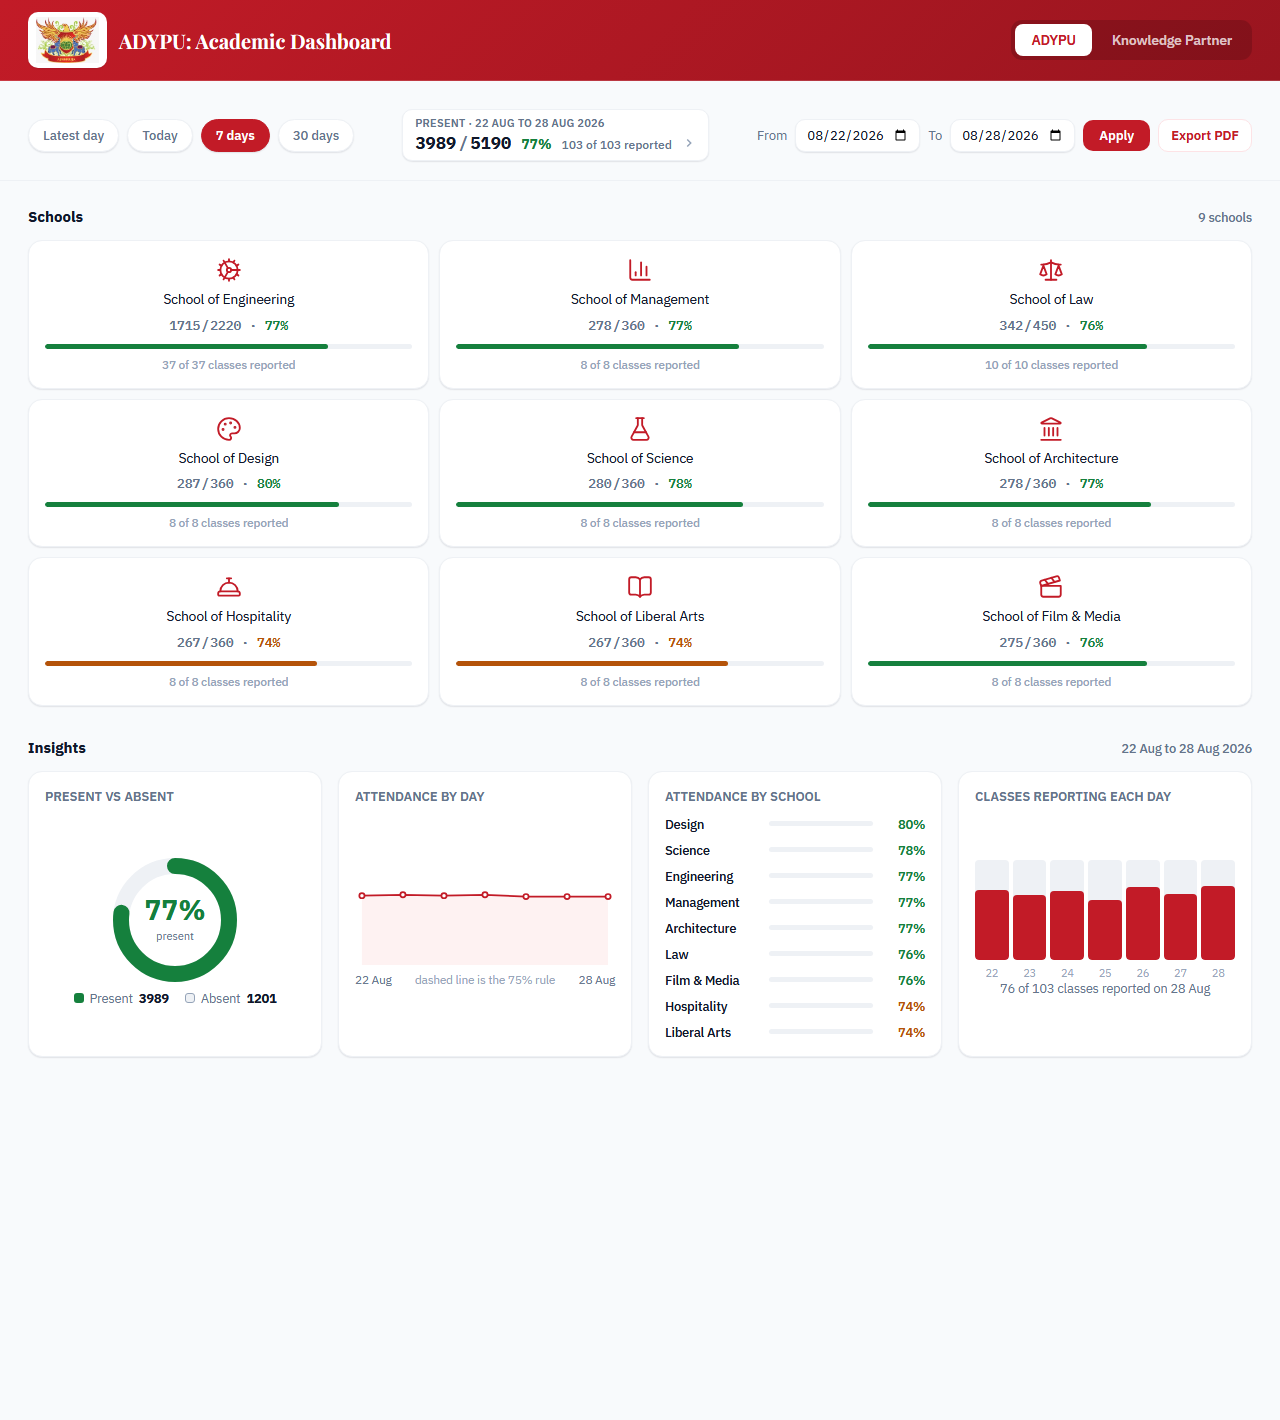
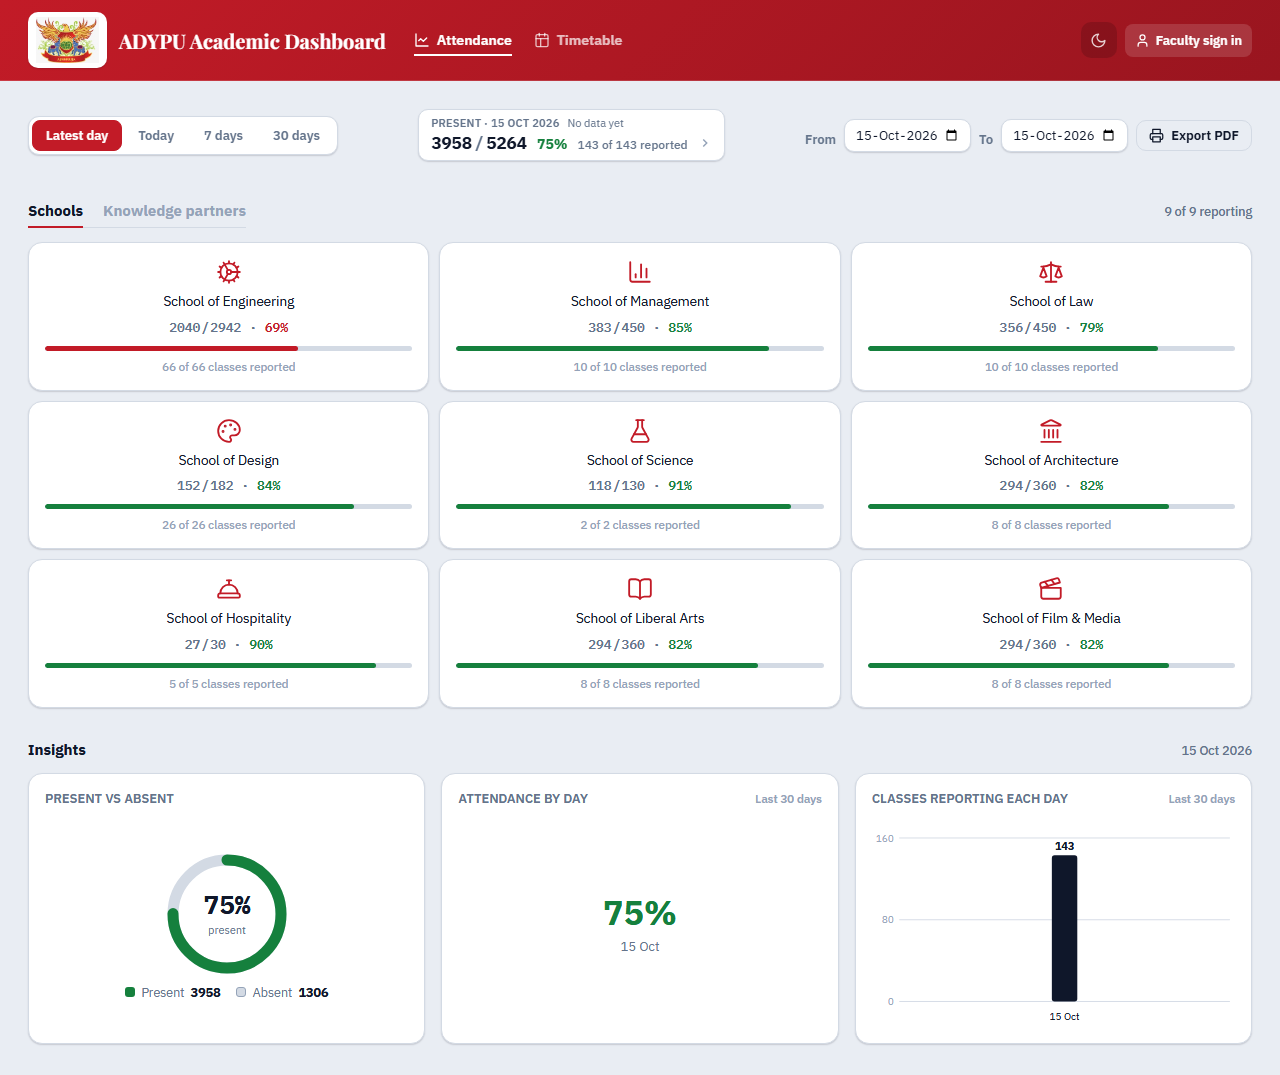
Rewrite the README short, with fresh screenshots

diff --git a/README.md b/README.md
@@ -1,274 +1,89 @@
 # ADYPU Academic Dashboard
 
-Daily attendance for Ajeenkya D Y Patil University: nine schools, 136 classes,
-drilled from School to Year to Branch to Division over any date range.
+Daily attendance and room timetables for Ajeenkya D Y Patil University.
 
-- Live: <https://adypu-academic-dashboard.fast-page.org/>
-- Dev (faculty marking and accounts): <https://adypu-daybook.fast-page.org/>
+**Live:** <https://adypu-daybook.fast-page.org/>
 
 ![The dashboard](docs/screenshots/dashboard.png)
 
-*Figures in these screenshots are sample data.*
+<sub>Figures in the screenshots are sample data.</sub>
 
-## What it does
+## Attendance
 
-- **A number that means something.** Present against the strength of the classes
-  that reported, beside a count of how many of the 136 those were. Neither can
-  mislead on its own.
-- **Any date range.** Presets, or two date inputs. A range averages each class
-  over the days it reported, so a week stays comparable to a day, and the
-  breakdown names the dates behind every average.
-- **Drill down and everything follows.** Pick a school, year, branch or a single
-  division; the summary, breadcrumb and all four charts rescope to it.
-- **Export as PDF.** The page prints itself as a dated report, named after the
-  breadcrumb, showing only the school in view.
-- **Faculty mark attendance from a phone.** Signed-in faculty get their class
-  list with a tick box against each student, plus all-present and all-absent.
-  The dashboard itself stays open to everyone: only writing needs an account.
-- **Knowledge partners on their own tab.** The 11 partner institutions have
-  their own tree (partner, year, program, division) at `?view=partners`. They
-  never count toward a school tile, the university percentage or the classes
-  reported pill.
-- **Room timetable.** `rooms.php` shows any room by date, ULC and classroom, period by period:
-  subject, class and teacher, with labs, breaks and outside bookings marked. It
-  is built from the official classwise timetable.
-- **Light and dark themes**, one toggle in the header of every page.
+- **Honest numbers.** Present against the strength of the classes that reported, always shown with how many reported.
+- **Any date range.** Presets or custom dates. A range averages each class's days, so a week compares with a day.
+- **Drill down.** School, year, branch, division. The summary and charts follow.
+- **Export PDF.** A dated report of whatever is on screen.
+- **Knowledge partners** have their own tab and never count toward a school.
 
-![Drilling down to a division](docs/screenshots/drilldown.png)
-
-## Insights
-
-Four charts, all hand-drawn SVG and CSS, no chart library. They rescope with the
-drill-down and cover the range you picked: present against absent, attendance
-per day against the university's 75% rule, a ranked comparison of whatever sits
-one level below your selection, and how many classes filed a form each day. That
-last one is the honesty check, since a great percentage resting on three forms
-should look like exactly that.
-
-![The four charts](docs/screenshots/insights-charts.png)
-
-## How the data gets here
-
-Two ways in, merged when the page is drawn.
-
-```
-Google Form -> response Sheet -> Apps Script (tools/apps-script.gs)
-                                      |  POST whole sheet as CSV,
-                                      |  secret in X-Ingest-Secret
-                                      v
-                                 api/ingest.php
-                                      |  replaces the file, every push
-                                      v
-                              cache/attendance.json  --+
-                                                       |
-Faculty phone -> login.php -> mark.php                 +--> merged on read
-                                 |                     |    by index.php and
-                                 |  appended, never    |    api/division.php
-                                 v  seen by a push     |
-                             data/submissions.php  ----+
-```
-
-Faculty either submit a present count on a Google Form, which an Apps Script
-pushes to `api/ingest.php`, or tick absentees on `mark.php`, which writes its own
-store. Both hold one count per class per lecture, which is what lets any date
-range be rebuilt and lets one class report after each of its lectures.
-
-They are separate files for a load-bearing reason: **`api/ingest.php` replaces
-`cache/attendance.json` wholesale on every push**, so anything the app wrote into
-that file would be gone within the hour. Where both name the same class, day and
-lecture, the app wins, because it counted students rather than trusting a typed
-total.
-
-Two rules hold the numbers together:
-
-- **`includes/structure.php` is canonical.** Every class that exists and its
-  strength. The denominator never comes from a submitted row, so it cannot drift
-  from a typo on the Form.
-- **The structure leads the submissions.** A class nobody reported still exists,
-  still contributes its strength, and is flagged unreported, so "nobody came"
-  and "nobody submitted" never look the same.
-
-## Faculty marking
-
-Everything here lives on the main site, on `main`. The dashboard stays public;
-only writing attendance needs a login.
-
-- **Sign up** at `/login.php`. A school's join code activates the account
-  instantly; a wrong or missing code queues it for an admin rather than
-  refusing it, so a teacher who missed the memo still ends up somewhere an admin
-  can see them.
-- **Mark** at `/mark.php`. Pick class, date and lecture (the URL carries all
-  three, so a daily class can be bookmarked). With a student list for the class
-  you get a tick box per student, where a tick means absent and the default is
-  everyone present. Without one you get a single present count, so all 136
-  classes work from day one and each upgrades as its school's list arrives. The
-  phone never posts a present total: it is computed server side from the roster,
-  and a typed count is clamped to the class strength.
-- **Admin** at `/admin.php`: approve queued accounts, disable them, rotate each
-  school's join code, and generate a temporary password when someone is locked
-  out. There is no email on this host, so there are no reset links.
-- **Account** at `/account.php`: change your own password.
-- **Usage** at `/stats.php` (admins only): visitors, page views, updates
-  received and classes reported, today and over 14 days, plus a per-school table
-  for any day. Traffic is our own counter with a salted, one-day visitor hash,
-  and footer link clicks are counted too. It also shows when the last push
-  arrived and any Form options it had to drop.
-- **Student lists** load with `tools/roster-import.php`, one file per school
-  under `data/roster/`. Any division whose list size disagrees with
-  `structure.php` is printed, which is how real enrolment figures find their way
-  back into the structure.
+![Drilling into a school](docs/screenshots/drilldown.png)
 
 ## Room timetable
 
-`rooms.php` is public and read-only. Pick a school (or all of them), a date,
-then a ULC, then a classroom, and it shows that room's whole week, the date's
-day marked. A picked school narrows the ULCs and rooms to where it teaches; in
-its rooms another school's class shows only as booked.
+- **Rooms.** Any room's week, picked by school and building.
+- **Free slots.** The same timetable with free time in green, for finding a room for an extra class.
+- **All rooms.** One switch shows every room's day on a single screen.
+- **Dean workload.** One person's week across every room.
+- **Attendance in the cell.** Tap a class to see its attendance by division.
 
-Tap a class to open its panel: the attendance filed for that lecture on that
-date, division by division. On a local copy with `TIMETABLE_SOURCES` set in
-`config.local.php`, the panel also lists every document the class is written
-in, with the tab and cell (or the PDF page) and how it was read; **Open at this
-class** (`source.php`) shows the school's own sheet with those cells marked, or
-the PDF at that page, and **Download original** is the file as the school sent
-it. The live site has the switch off and never gets the documents
-(`timetable/docs/`, which stage-upload leaves out). Engineering and
-whole-year BBA/MBA classes also show their attendance in the cell ("48/60
-present", or "Not marked" once the lecture has started). Law and Liberal Arts
-timetable by programme while their attendance is kept by division, so they show
-none rather than a guess.
-**Show one day** narrows it to the date's day (the timetable repeats weekly, so
-the date only picks the weekday; a weekend says there are no classes), and
-**Export PDF** prints whichever is on screen.
-Each room draws only the time rows it is booked in, because classes keep their
-own clocks (one runs 12.30 to 1.30, another 1.00 to 2.00).
+![All rooms at once](docs/screenshots/all-rooms.png)
 
-Four ULCs so far: ULC 1, ULC 5, ULC 6 and ULC 7. ULC 1 is filled from Law and Liberal Arts (classwise
-workbooks: one tab per class, each period a subject, faculty and room row) and
-from Management, Biotechnology, Civil, Biomedical, ECE, CSE, AIDS and Mechanical (AE) and Robotics, whose layouts (a PDF, a
-days-by-class grid, merged two-hour cells, a room-by-period master sheet) are
-first turned into data files the build script reads. ULC 6 is the School of
-Engineering First Year, from its PDF; each division keeps its own clock, so its
-periods are snapped to the hour they fall in. A room another department holds,
-and no class of ours is in, shows as booked. ULC 5 holds Biomedical and Mechanical rooms. The sheets'
-"ULC 5B" and "ULC 5C" rooms are ULC 6 and ULC 7, numbered
-012 like the rest (AIDS and CSE final year), and
-every lab is one room whatever a sheet calls it, named by its number where it has one (Mac Lab is the
-Animation Lab; Psy Lab is "305 (Psy Lab)", and the Digital Library, DL Lab and 105 are one room, "105 (Digital Library / Digital Lab)"). Rooms in no ULC are left out; a room number used in two ULCs is named with its ULC. A lab or lecture
-longer than an hour covers the rows its hours fall in, by the clock. A lecture typed on several classes' tabs, such as a
-common first-year subject, is one booking listing every class, and two
-bookings in one room at one time are outlined as a clash. This host
-cannot make outbound requests, so the page reads a file, `timetable/rooms.php`,
-built from those workbooks by `tools/timetable/build.php`. The script
-repairs what a hand-typed sheet gets wrong (a room typed in the faculty row, a
-missing room, "1.00 am" for 1 pm) and prints every repair so it can be checked.
-Rebuild it whenever the timetable changes, then upload it:
+![Free slots](docs/screenshots/free-slots.png)
 
-1. `php tools/timetable/build.php > tools/timetable/data/last-build.txt`. It
-   writes `timetable/rooms.php` and a copy of each school's document under
-   `timetable/docs/`, and prints the repairs, the clashes, any booking whose
-   cell in its document it could not find, and the class, room and booking
-   counts. A new school's file needs an entry in `SOURCE_DOCS`
-   (`tools/timetable/sources.php`) or its classes show no source.
-2. `tools/stage-upload.sh` stages `timetable/rooms.php` every time it exists,
-   and any document the build rewrote, with whatever else changed. Drop
-   `upload/` on the server as usual.
+## Faculty accounts
 
-Law and Liberal Arts are read straight from their workbooks. Every other
-school is first turned into a `.json` by one of the `convert-*` scripts beside
-the build (`dump-grid.py` feeds `convert-cse.php`; the Python ones need
-openpyxl; `convert-aids.php` and `convert-cse.php` read the timetable
-generator repo, checked out beside this one, without changing it). First Year,
-Biotechnology, Civil and ECE are typed by hand from their PDFs and sheets.
+- **Sign up** with the school's join code, or wait for an admin to approve.
+- **Mark attendance** from a phone: tick the absentees, or type a count.
+- **Admins** approve accounts, rotate join codes, reset passwords and see usage.
 
-The sources, those `.json` files and the output all carry faculty names and
-this repo is public, so `tools/timetable/data/` (the workbooks under
-`sources/`, the transcriptions, `last-build.txt`) and `timetable/` are
-gitignored. Like every file in `data/`, the output is JSON behind a
-`<?php exit; ?>` guard line, so the server never hands it out.
+The dashboard and timetable are open to everyone. Only marking needs an account.
 
-## The two sites
-
-| Site | Branch | Purpose |
-| --- | --- | --- |
-| <https://adypu-daybook.fast-page.org/> | `main` | The main site: everything above |
-| <https://adypu-academic-dashboard.fast-page.org/> | `old-main` | The original dashboard and Form pipeline, kept as it was |
-
-`main` was the `faculty-marking` branch until 13 Oct 2026, when it became the
-main site; the original `main` is kept as `old-main`. Never upload a `main` file
-to the old site: `old-main` has no `auth.php`, `page.php` or `roster.php`, so an
-`index.php` from `main` there is a blank HTTP 500.
-Give each site its own `includes/config.local.php` with a different
-`INGEST_SECRET` and `ADMIN_HASH`.
-
-`tools/stage-upload.sh [ref|--all]` copies exactly the files an upload needs into
-`upload/`, paths intact, and never includes `config.local.php`, `data/`, `tools/`
-or `tests/`. The host is InfinityFree: FTP only, no outbound HTTP from PHP
-(hence the push pipeline), and a 24 hour suspension if the daily hits limit is
-exceeded.
-
-## Running it
-
-PHP 8, no framework, no Composer, no build step. Vanilla JS, hand-drawn SVG
-charts.
+## How data arrives
 
 ```
-php -S localhost:8000                  # then open /index.php
-php tests/test_attendance_parser.php   # parser suite, prints OK
-php tests/test_marking.php             # store, merge, accounts, roster import
-php tests/test_partner_divisions.php   # which partner program-years the request lists
-php tests/test_timetable.php           # room timetable file and grid
-node tests/test_marking_ui.js          # the marking screen's live count
-node tests/test_theme_contrast.js      # light and dark contrast
-node tests/test_charts.js              # chart scoping suite, prints OK
-php tools/form-options.php             # regenerate the Form's dropdowns
-php tools/data-request.php roster      # the student list request for the schools
-php tools/roster-import.php eng eng.csv  # load a returned list
+Google Form -> Sheet -> Apps Script --push--> api/ingest.php -> cache/attendance.json --+
+                                                                                       +--> the dashboard
+Faculty phone -> mark.php ---------------------------------> data/submissions.php ----+
 ```
 
-To sign in locally, put an `ADMIN_EMAIL` and an `ADMIN_HASH` in
-`includes/config.local.php` (see `config.local.example.php`); everyone else signs
-up at `/login.php` and is approved from `/admin.php`, or activates themselves
-with their school's join code.
+- The class list and strengths come from `includes/structure.php`, never from a submission.
+- A class that did not report still counts toward strength and is flagged as unreported.
 
-With no `cache/attendance.json` and no `data/`, the dashboard serves sample rows,
-so a fresh checkout is usable straight away. `tests/` is assert-based scripts, no
-framework; add a case for any parser, merge or chart-scoping change. Every bug
-here so far has been a row silently not counting, which is exactly what a test
-catches and eyeballing does not.
+## Run it locally
 
-## Layout
+PHP 8, no framework, no build step.
 
-```
-index.php                dashboard, open to everyone
-login.php                faculty sign in and sign up
-mark.php                 tick the class list, or type a count
-admin.php                approve accounts, rotate join codes, reset passwords
-account.php              change your own password
-stats.php                usage page, admins only
-rooms.php                room timetable, open to everyone, read-only
-api/ingest.php           receives the pushed sheet
-api/click.php            counts footer link clicks
-api/division.php         division breakdown for the modal
-includes/attendance.php  parsing, the day map, the merge, ranges, totals
-includes/structure.php   the canonical class list
-includes/auth.php        accounts, sessions, join codes
-includes/store.php       reads and writes everything under data/
-includes/roster.php      student lists, one file per school
-includes/traffic.php     visitor and click counters behind the usage page
-includes/timetable.php   room timetable: reads timetable/rooms.php, builds the grid
-includes/page.php        shared header, footer and account menu
-js/dashboard.js          drill-down, range controls, modal
-js/charts.js             the four charts
-js/mark.js               live count, all present/absent, offline draft
-js/theme.js              light/dark toggle shared by every page
-tools/apps-script.gs     goes in the Apps Script editor
-tools/roster-import.php  a returned student list -> data/roster/<school>.php
-tools/data-request.php   builds the workbooks sent to schools and partners
-tools/stage-upload.sh    stages the files an upload needs
+```bash
+php -S localhost:8000
 ```
 
-`data/` is never in git and never uploaded: it holds the accounts, the student
-names and everything the live site wrote for itself. Every file in it is JSON
-behind a `<?php exit; ?>` line, so asking the web server for one returns a blank
-page rather than a roster.
+Open <http://localhost:8000/index.php>. With no data it shows sample figures.
+
+Tests are plain assert scripts:
+
+```bash
+php -d zend.assertions=1 tests/test_attendance_parser.php
+php -d zend.assertions=1 tests/test_marking.php
+php -d zend.assertions=1 tests/test_timetable.php
+node tests/test_charts.js
+```
+
+## Deploy
+
+- `tools/stage-upload.sh <ref>` copies the changed files into `upload/`, paths intact.
+- Drop `upload/` onto the server's `htdocs` over FTP.
+- `includes/config.local.php` lives only on the server (see `config.local.example.php`).
+
+## Project layout
+
+| Path | What it is |
+| --- | --- |
+| `index.php` | Attendance dashboard |
+| `rooms.php` | Room timetable, Free slots, All rooms, Dean workload |
+| `mark.php`, `login.php`, `admin.php` | Faculty marking and accounts |
+| `stats.php` | Usage, admins only |
+| `api/` | Push endpoint and the division breakdown |
+| `includes/` | Parsing, structure, timetable, accounts, storage |
+| `js/`, `css/` | Front end, no libraries |
+| `tools/` | Apps Script, roster import, timetable build, upload staging |
+| `tests/` | Assert-based test scripts |
